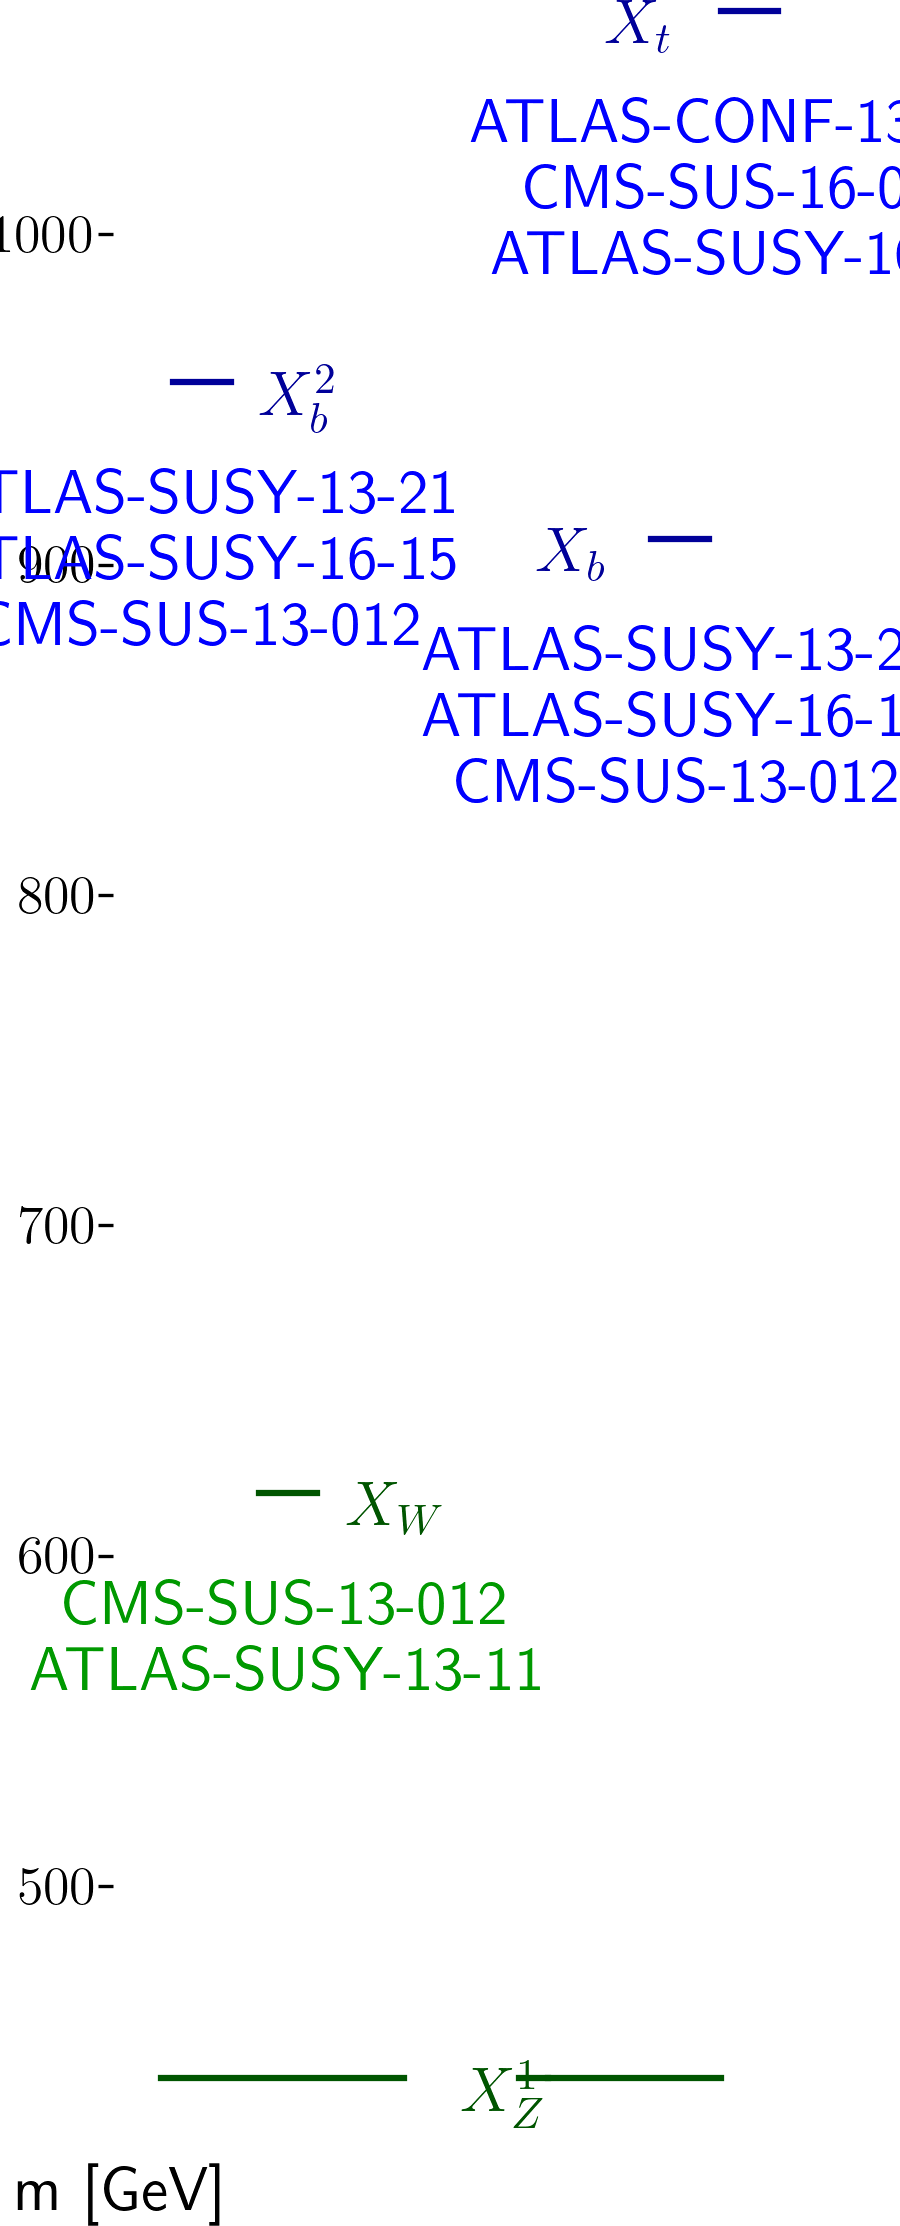
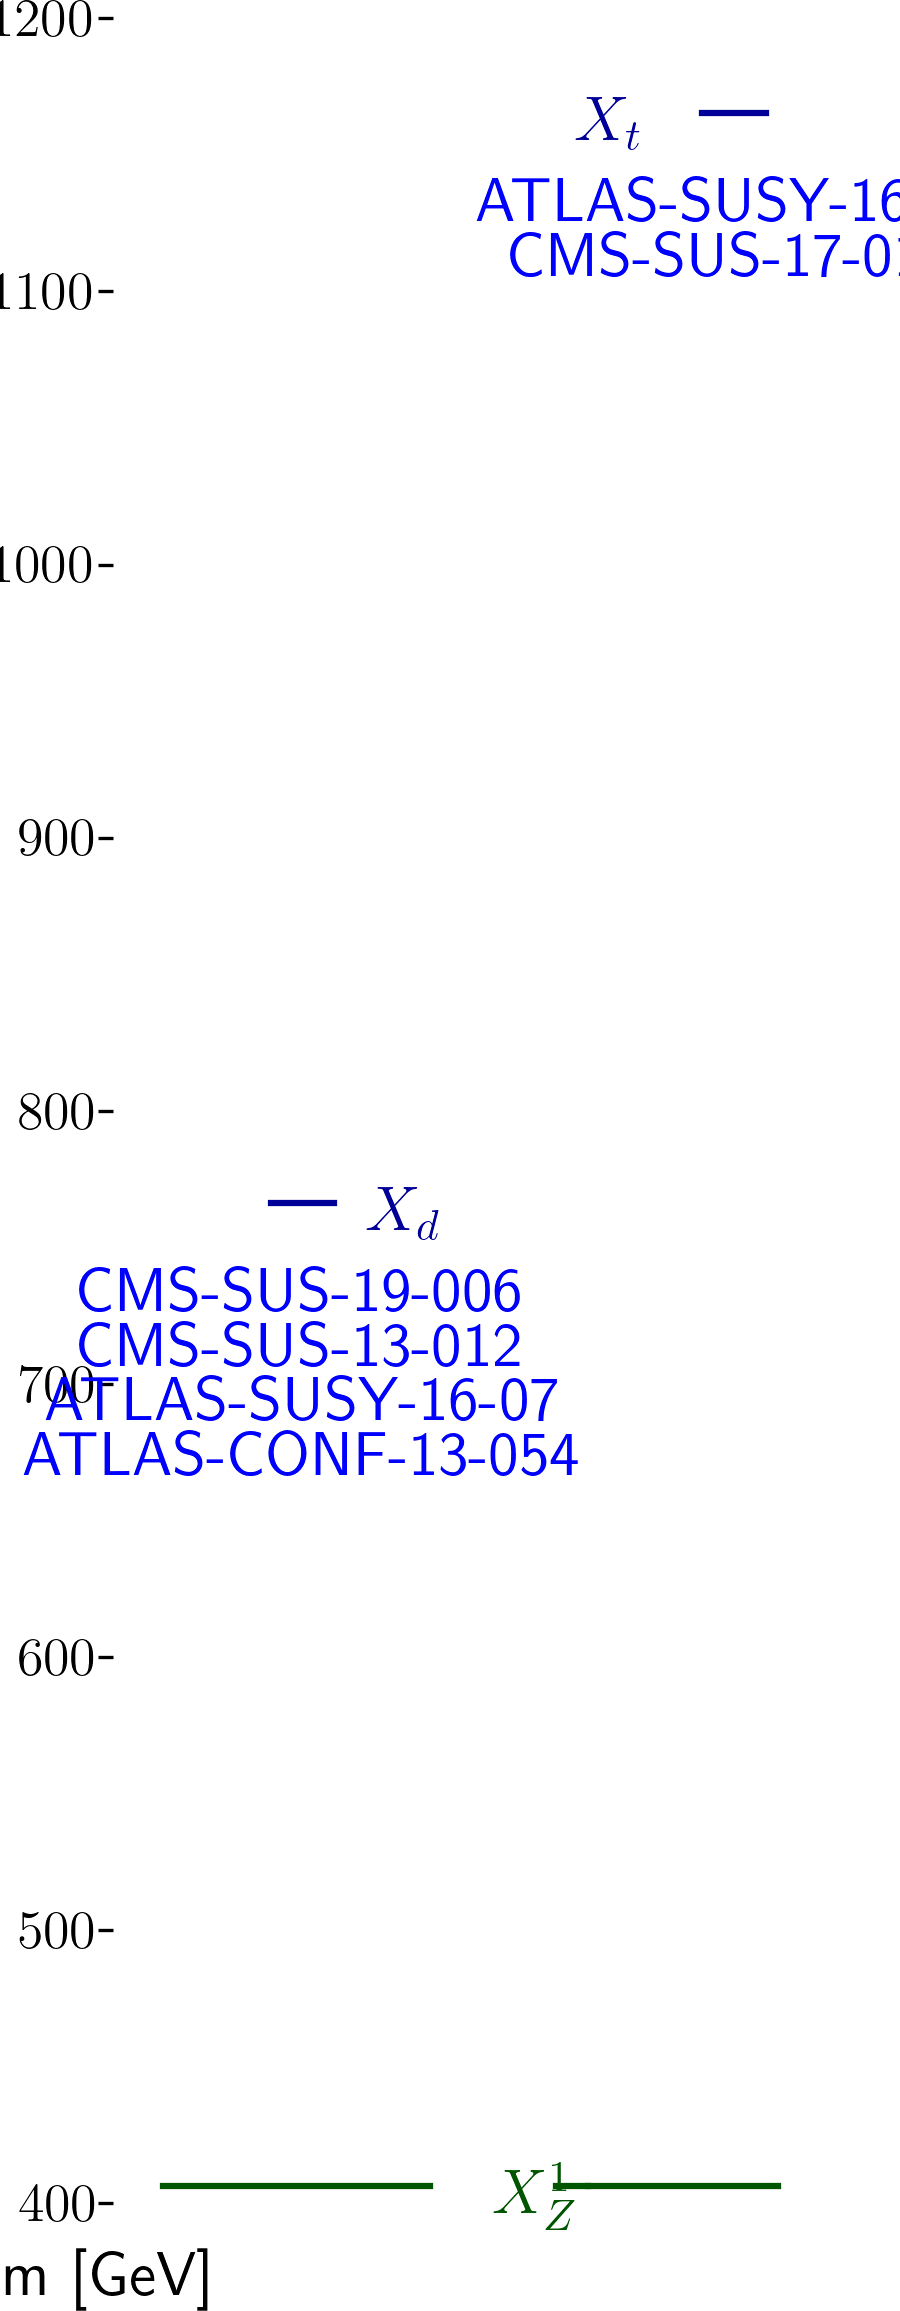
automated update by plotHiscore.py

diff --git a/protomodels/latest/index.html b/protomodels/latest/index.html
@@ -1,33 +1,23 @@
 <html>
 <body>
 <center>
-<table><td><h1>Current best protomodel: K=25.51</h1><td><img height=60px src=https://smodels.github.io/pics/banner.png></table>
+<table><td><h1>Current best protomodel: K=6.84</h1><td><img height=60px src=https://smodels.github.io/pics/banner.png></table>
 </center>
-<b><a href=./hiscore.slha>ProtoModel</a> <a href=./pmodel.py>(dict)</a> produced with <a href=https://smodels.github.io/docs/Validation123signal3>database v1.2.3signal3</a>, combination strategy <a href=./matrix_aggressive.png>aggressive</a> in walker 131 step 783.</b> K plots for: <a href=./M1000022.png?4312666>X<sub>Z</sub><sup>1</sup></a>, <a href=./M1000006.png?4312666>X<sub>t</sub></a>, <a href=./M1000005.png?4312666>X<sub>b</sub></a>, <a href=./M1000024.png?4312666>X<sub>W</sub></a>. HPD plots for: <a href=./llhd1000006.png?4312666>X<sub>t</sub></a>, <a href=./llhd1000005.png?4312666>X<sub>b</sub></a>, <a href=./llhd1000024.png?4312666>X<sub>W</sub></a>. SSM plots for: <a href=./ssm_-1000006_1000006.png?4312666>(x&#772;<sub>t</sub>,X<sub>t</sub>)</a><br>
+<b><a href=./hiscore.slha>ProtoModel</a> <a href=./pmodel.py>(dict)</a> produced with <a href=https://smodels.github.io/docs/Validation123signal4>database v1.2.3signal4</a>, combination strategy <a href=./matrix_aggressive.png>aggressive</a> in walker 194 step 309.</b> . SSM plots for: <a href=./ssm_-1000006_1000006.png?4312688>(x&#772;<sub>t</sub>,X<sub>t</sub>)</a><br>
 <table width=80%>
 <tr><td>
-<br><b>38 predictions available. Highest r values are:</b><br><ul>
-<li><a href=http://cms-results.web.cern.ch/cms-results/public-results/publications/SUS-16-051/index.html>CMS-SUS-16-051</a>:T2tt r=1.30, r<sub>exp</sub>=1.08<br>
-<li><a href=http://cms-results.web.cern.ch/cms-results/public-results/publications/SUS-16-036/index.html>CMS-SUS-16-036</a>:T2bb r=1.27, r<sub>exp</sub>=1.30<br>
-<li><a href=http://cms-results.web.cern.ch/cms-results/public-results/publications/SUS-16-032/index.html>CMS-SUS-16-032</a>:T2bb r=1.27, r<sub>exp</sub>=N/A<br>
-<li><a href=https://atlas.web.cern.ch/Atlas/GROUPS/PHYSICS/PAPERS/SUSY-2013-11/>ATLAS-SUSY-2013-11</a>:TChiWW r=1.19, r<sub>exp</sub>=1.64<br>
-<li><a href=http://cms-results.web.cern.ch/cms-results/public-results/publications/SUS-19-006/index.html>CMS-SUS-19-006</a>:T2tt r=1.17, r<sub>exp</sub>=1.62<br>
+<br><b>27 predictions available. Highest r values are:</b><br><ul>
+<li><a href=http://cms-results.web.cern.ch/cms-results/public-results/publications/SUS-16-049/index.html>CMS-SUS-16-049</a>:T2tt r=1.30, r<sub>exp</sub>=0.69<br>
+<li><a href=http://cms-results.web.cern.ch/cms-results/public-results/publications/SUS-16-036/index.html>CMS-SUS-16-036</a>:T2 r=1.23, r<sub>exp</sub>=0.56<br>
+<li><a href=http://cms-results.web.cern.ch/cms-results/public-results/publications/SUS-16-036/index.html>CMS-SUS-16-036</a>:T2tt r=0.98, r<sub>exp</sub>=0.42<br>
+<li><a href=http://cms-results.web.cern.ch/cms-results/public-results/publications/SUS-19-006/index.html>CMS-SUS-19-006</a>:T2tt r=0.64, r<sub>exp</sub>=0.75<br>
+<li><a href=http://cms-results.web.cern.ch/cms-results/public-results/publications/SUS-19-006/index.html>CMS-SUS-19-006</a>:T2 r=0.47, r<sub>exp</sub>=0.81<br>
 </ul>
-<td><br><b>Contributions per analysis:</b><br>
-<ul>
-<li> <a href=https://atlas.web.cern.ch/Atlas/GROUPS/PHYSICS/PAPERS/SUSY-2013-11/>ATLAS-SUSY-2013-11</a>: 49%
-<li> <a href=http://cms-results.web.cern.ch/cms-results/public-results/publications/SUS-16-050/index.html>CMS-SUS-16-050</a>: 31%
-<li> <a href=https://atlas.web.cern.ch/Atlas/GROUPS/PHYSICS/PAPERS/SUSY-2016-15/>ATLAS-SUSY-2016-15</a>: 25%
-<li> <a href=https://atlas.web.cern.ch/Atlas/GROUPS/PHYSICS/PAPERS/SUSY-2016-16/>ATLAS-SUSY-2016-16</a>: 5%
-<li> <a href=https://twiki.cern.ch/twiki/bin/view/CMSPublic/PhysicsResultsSUS13012>CMS-SUS-13-012</a>: -1%
-<li> <a href=>CMS-SUS-16-051</a>: -3%
-<li> <a href=https://atlas.web.cern.ch/Atlas/GROUPS/PHYSICS/CONFNOTES/ATLAS-CONF-2013-037/>ATLAS-CONF-2013-037</a>: -3%
-<li> <a href=https://atlas.web.cern.ch/Atlas/GROUPS/PHYSICS/PAPERS/SUSY-2013-21/>ATLAS-SUSY-2013-21</a>: -4%
-<td><img width=600px src=./texdoc.png?1597312666>
-<br><font size=-1>Last updated: Thu Aug 13 11:57:46 2020</font>
+<td><img width=600px src=./texdoc.png?1597312688>
+<br><font size=-1>Last updated: Thu Aug 13 11:58:08 2020</font>
 </table><table style="width:80%">
-<td width=45%><img height=580px src=./ruler.png?1597312666><td width=55%><img height=380px src=./decays.png?1597312666>
-<font size=-3><iframe type="text/html" height="220px" width="100%s" frameborder="0" src="./rawnumbers.html?1597312666"></iframe></font>
+<td width=45%><img height=580px src=./ruler.png?1597312688><td width=55%><img height=380px src=./decays.png?1597312688>
+<font size=-3><iframe type="text/html" height="220px" width="100%s" frameborder="0" src="./rawnumbers.html?1597312688"></iframe></font>
 </table>
 </body>
 </html>

diff --git a/protomodels/latest/rawnumbers.html b/protomodels/latest/rawnumbers.html
@@ -1,11 +1,10 @@
 <table>
 <tr><th>Analysis Name</th><th>Type</th><th>Dataset</th><th>Observed</th><th>Expected</th><th>Approx &sigma;</th><th>Particles</th><th>Signal</th>
 </tr>
-<tr><td><a href=https://atlas.web.cern.ch/Atlas/GROUPS/PHYSICS/PAPERS/SUSY-2016-15/>ATLAS-SUSY-2016-15</a></td><td>em</td> <td>SRDhigh</td><td>23</td><td>8.5 +/- 1.5</td><td style="text-align:right">4.4 &sigma;</td><td style="text-align:right">X<sub>b</sub>, X<sub>b</sub><sup>2</sup></td><td style="text-align:right">-</td></tr>
-<tr><td><a href=https://atlas.web.cern.ch/Atlas/GROUPS/PHYSICS/PAPERS/SUSY-2016-16/>ATLAS-SUSY-2016-16</a></td><td>em</td> <td>tN_high</td><td>8</td><td>3.8 +/- 1</td><td style="text-align:right">1.9 &sigma;</td><td style="text-align:right">X<sub>t</sub></td><td style="text-align:right">5</td></tr>
-<tr><td><a href=http://cms-results.web.cern.ch/cms-results/public-results/publications/SUS-16-050/index.html>CMS-SUS-16-050</a></td><td>ul</td> <td>-</td><td> 10.9 fb </td><td> 4.7 fb</td><td style="text-align:right">2.6 &sigma;</td><td style="text-align:right">X<sub>t</sub></td><td style="text-align:right">2.64 fb</td></tr>
-<tr><td><a href=https://atlas.web.cern.ch/Atlas/GROUPS/PHYSICS/CONFNOTES/ATLAS-CONF-2013-037/>ATLAS-CONF-2013-037</a></td><td>em</td> <td>SRtN3</td><td>7</td><td>5 +/- 2</td><td style="text-align:right">0.7 &sigma;</td><td style="text-align:right">X<sub>t</sub></td><td style="text-align:right">-</td></tr>
-<tr><td><a href=https://atlas.web.cern.ch/Atlas/GROUPS/PHYSICS/PAPERS/SUSY-2013-11/>ATLAS-SUSY-2013-11</a></td><td>em</td> <td>mT2-120-DF</td><td>14</td><td>3.6 +/- 1.2</td><td style="text-align:right">4.6 &sigma;</td><td style="text-align:right">X<sub>W</sub></td><td style="text-align:right">-</td></tr>
-<tr><td><a href=https://atlas.web.cern.ch/Atlas/GROUPS/PHYSICS/PAPERS/SUSY-2013-21/>ATLAS-SUSY-2013-21</a></td><td>em</td> <td>M3</td><td>1643</td><td>1770 +/- 81</td><td style="text-align:right">-1.4 &sigma;</td><td style="text-align:right">X<sub>b</sub>, X<sub>b</sub><sup>2</sup></td><td style="text-align:right">-</td></tr>
-<tr><td><a href=https://twiki.cern.ch/twiki/bin/view/CMSPublic/PhysicsResultsSUS13012>CMS-SUS-13-012</a></td><td>em</td> <td>6NJet8_500HT800 ...</td><td>5</td><td>0.8 +/- 3.3</td><td style="text-align:right">1.2 &sigma;</td><td style="text-align:right">X<sub>W</sub>, X<sub>b</sub>, X<sub>b</sub><sup>2</sup></td><td style="text-align:right">-</td></tr>
+<tr><td><a href=https://atlas.web.cern.ch/Atlas/GROUPS/PHYSICS/PAPERS/SUSY-2016-07/>ATLAS-SUSY-2016-07</a></td><td>em</td> <td>4j_Meff_2200</td><td>24</td><td>16.5 +/- 2.7</td><td style="text-align:right">1.5 &sigma;</td><td style="text-align:right">X<sub>d</sub></td><td style="text-align:right">12</td></tr>
+<tr><td><a href=https://atlas.web.cern.ch/Atlas/GROUPS/PHYSICS/PAPERS/SUSY-2016-16/>ATLAS-SUSY-2016-16</a></td><td>em</td> <td>tN_high</td><td>11</td><td>3.8 +/- 1</td><td style="text-align:right">3.3 &sigma;</td><td style="text-align:right">X<sub>t</sub></td><td style="text-align:right">7</td></tr>
+<tr><td><a href=http://cms-results.web.cern.ch/cms-results/public-results/publications/SUS-17-010>CMS-SUS-17-010</a></td><td>ul</td> <td>-</td><td> 54.7 fb </td><td> 66.6 fb</td><td style="text-align:right">-0.3 &sigma;</td><td style="text-align:right">X<sub>t</sub></td><td style="text-align:right">2.64 fb</td></tr>
+<tr><td><a href=http://cms-results.web.cern.ch/cms-results/public-results/publications/SUS-19-006/index.html>CMS-SUS-19-006</a></td><td>ul</td> <td>-</td><td> 76.7 fb </td><td> 44.7 fb</td><td style="text-align:right">1.4 &sigma;</td><td style="text-align:right">X<sub>t</sub></td><td style="text-align:right">2.64 fb</td></tr>
+<tr><td><a href=https://atlas.web.cern.ch/Atlas/GROUPS/PHYSICS/CONFNOTES/ATLAS-CONF-2013-054/>ATLAS-CONF-2013-054</a></td><td>em</td> <td>8j50 flavor 0 b ...</td><td>28</td><td>35 +/- 4</td><td style="text-align:right">-1.0 &sigma;</td><td style="text-align:right">X<sub>d</sub></td><td style="text-align:right">-</td></tr>
+<tr><td><a href=https://twiki.cern.ch/twiki/bin/view/CMSPublic/PhysicsResultsSUS13012>CMS-SUS-13-012</a></td><td>em</td> <td>6NJet8_500HT800 ...</td><td>7</td><td>0.8 +/- 3.3</td><td style="text-align:right">1.8 &sigma;</td><td style="text-align:right">X<sub>d</sub></td><td style="text-align:right">-</td></tr>
 </table>

diff --git a/protomodels/latest/pmodel.py b/protomodels/latest/pmodel.py
@@ -1,1 +1,1 @@
-{'masses': {1000022: 431.883, 1000024: 609.139, 1000006: 1057.648, 1000005: 897.899, 2000005: 945.301}, 'ssmultipliers': {(1000022, 1000022): 973.205, (1000024, 1000024): 224.482, (-1000024, 1000024): 224.482, (-1000024, -1000024): 224.482, (1000022, 1000024): 220.346, (-1000024, 1000022): 0.0, (1000006, 1000006): 2.244, (-1000006, 1000006): 1.981, (-1000006, -1000006): 2.244, (1000006, 1000022): 2.43, (-1000006, 1000022): 2.43, (1000006, 1000024): 1.05, (-1000006, 1000024): 1.193, (-1000024, 1000006): 1.171, (-1000024, -1000006): 1.171, (1000005, 1000005): 1.15, (-1000005, 1000005): 1.15, (-1000005, -1000005): 1.15, (1000005, 1000022): 1.15, (-1000005, 1000022): 1.15, (1000005, 1000024): 1.189, (-1000005, 1000024): 1.189, (-1000024, 1000005): 1.189, (-1000024, -1000005): 1.189, (1000005, 1000006): 1.01, (-1000005, 1000006): 1.01, (-1000006, 1000005): 1.01, (-1000006, -1000005): 1.146, (2000005, 2000005): 1.006, (-2000005, 2000005): 1.006, (-2000005, -2000005): 1.006, (1000022, 2000005): 1.006, (-2000005, 1000022): 1.006, (1000024, 2000005): 1.006, (-2000005, 1000024): 1.006, (-1000024, 2000005): 1.006, (-2000005, -1000024): 1.006, (1000006, 2000005): 1.006, (-2000005, 1000006): 1.006, (-1000006, 2000005): 1.006, (-2000005, -1000006): 1.006, (1000005, 2000005): 1.006, (-2000005, 1000005): 1.006, (-1000005, 2000005): 1.006, (-2000005, -1000005): 1.006}, 'decays': {1000022: {}, 1000024: {1000022: 1.0}, 1000006: {1000024: 0.037, 1000022: 0.963}, 1000005: {1000024: 0.064, 1000022: 0.936}, 2000005: {1000024: 0.215, 1000022: 0.785}}, 'timestamp': 'Thu Aug 13 11:57:31 2020', 'Z': 5.502, 'K': 25.513, 'step': 783, 'codever': '1.0', 'dbver': '1.2.3signal3'}
+{'masses': {1000022: 396.459, 1000006: 1155.281, 1000001: 756.26}, 'ssmultipliers': {(1000022, 1000022): 0.734, (1000006, 1000006): 0.866, (-1000006, 1000006): 0.89, (-1000006, -1000006): 0.866, (1000006, 1000022): 0.866, (-1000006, 1000022): 0.866, (1000001, 1000001): 0.89, (-1000001, 1000001): 0.89, (-1000001, -1000001): 0.89, (1000001, 1000022): 0.89, (-1000001, 1000022): 0.89, (1000001, 1000006): 0.89, (-1000001, 1000006): 0.89, (-1000006, 1000001): 0.89, (-1000006, -1000001): 0.89}, 'decays': {1000022: {}, 1000006: {1000022: 1.0}, 1000001: {1000022: 1.0}}, 'timestamp': 'Thu Aug 13 11:57:40 2020', 'Z': 3.001, 'K': 6.845, 'step': 309, 'codever': '1.0', 'dbver': '1.2.3signal4'}
